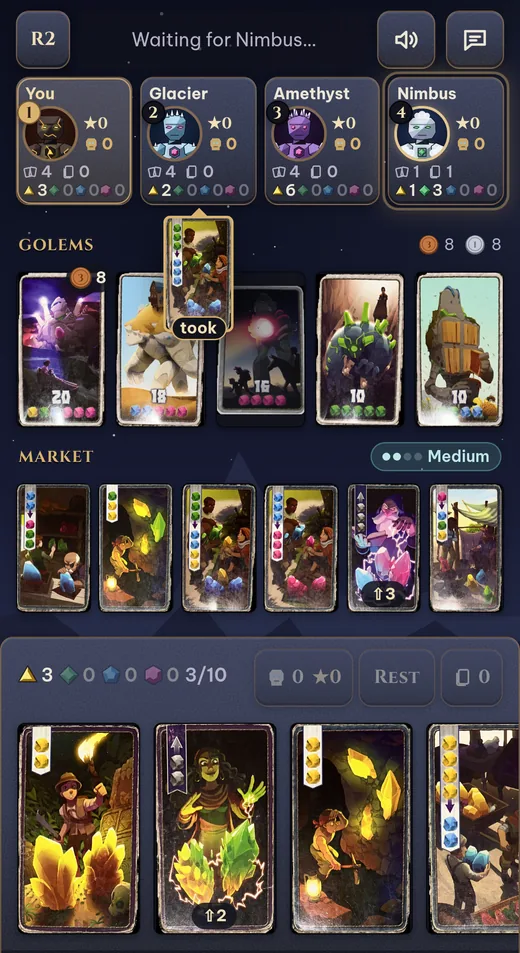
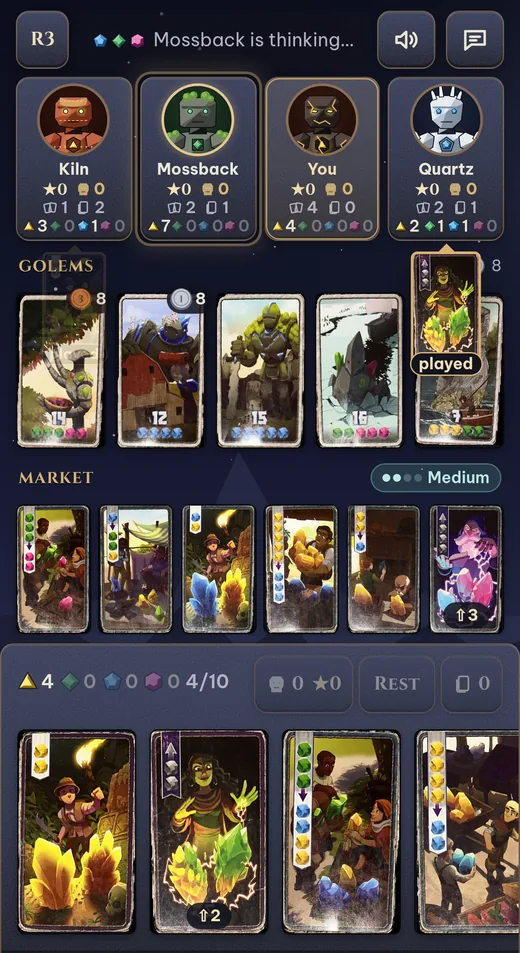
feat(mobile): big centred portraits in the player chips, no turn numbers

diff --git a/src/golem/web/react-frontend/src/components/PlayersInfoBar.jsx b/src/golem/web/react-frontend/src/components/PlayersInfoBar.jsx
@@ -17,9 +17,9 @@ const ORDINAL = ['1st', '2nd', '3rd', '4th', '5th']
 const GAP = 6 // gap-1.5
 
 /**
- * Chip layout for a chip `w` px wide: wide (51px portrait, name · ★ golems · hand played beside it,
- * crystals in one row) · medium (name on top, ★ / golems beside a 42px portrait, crystals in one row) ·
- * narrow (no name, 42px portrait on top, crystals 2×2). Held sideways: 34 / 28px portraits. Below MIN_CHIP the row scrolls sideways instead (5 players on a 320px phone).
+ * Chip layout for a chip `w` px wide: wide (biggest portrait, name, ★ golems and hand / played on one line) ·
+ * medium (name, two lines of numbers, crystals in one row) · narrow (no name, crystals 2×2). Phones held
+ * sideways use compact side-by-side versions (34 / 28px portraits). Below MIN_CHIP the row scrolls sideways instead (5 players on a 320px phone).
  * Sizes allow for two-digit points and Safari's wider text.
  */
 export function chipLayout(w) {
@@ -35,17 +35,6 @@ export function doneForGame(gameState, index) {
   const cur = gameState.players?.findIndex((p) => p.id === gameState.currentPlayer)
   return cur >= 0 && index < cur
 }
-
-// Turn number on the portrait; mine is bronze ("you play 2nd").
-const Order = ({ k, me }) => (
-  <span
-    className={`absolute -left-1 -top-1 z-10 flex h-[18px] min-w-[18px] items-center justify-center rounded-full border px-1 font-display text-xs font-bold leading-none shadow-elev-1
-      ${me ? 'border-bronze-700 bg-bronze-300 text-ink' : 'border-black/70 bg-rock-950 text-bronze-100'}`}
-    aria-hidden="true"
-  >
-    {k}
-  </span>
-)
 
 const Counts = ({ hand, played, className = '' }) => (
   <span className={`inline-flex items-center gap-2 text-xs font-semibold leading-none tabular-nums text-fg-muted ${className}`}>
@@ -75,9 +64,9 @@ const Crystals = ({ caravan, gem, grid = false }) => (
 )
 
 /**
- * Phones: **everyone at the table in turn order** — left to right is the order of play in a round, each
- * portrait numbered (1 starts the round, the highest number ends it), my own chip outlined in bronze —
- * so you see who opens and closes the round and where you sit. Each stone chip: portrait, name (when
+ * Phones: **everyone at the table in turn order** — left to right is the order of play in a round (the
+ * first chip opens it, the last one closes it; no numbers on the portraits, the order says it), my own chip
+ * outlined in bronze — so you see who opens and closes the round and where you sit. Each stone chip: portrait, name (when
  * there is room), ★ points, golems, cards in hand / played, crystals. The player to move glows; people get
  * a timer ring. In the last round, players who already had their final turn are dimmed.
  * Chips get denser as the row fills (`chipLayout`), so all five players fit a phone without scrolling.
@@ -99,8 +88,9 @@ const PlayersInfoBar = ({ landscape = false }) => {
   const chipW = (width - GAP * (cols - 1)) / cols
   const scroll = chipW < MIN_CHIP
   const layout = scroll ? 'narrow' : chipLayout(chipW)
-  // Portraits 1.5× in portrait (51 / 42px; user request 2026-11-18). Held sideways the column is short, so
-  // they stay 34 / 28px there and the hand keeps its room.
+  // Portrait: the portrait centred on top of the chip, as big as it fits (66px when wide, 55px otherwise;
+  // user requests 2026-11-18), the numbers below. Held sideways the column is short, so the compact side-by-side
+  // layouts with 34 / 28px portraits stay there and the hand keeps its room.
   const big = !landscape
 
   return (
@@ -125,7 +115,6 @@ const PlayersInfoBar = ({ landscape = false }) => {
         const portrait = (size) => (
           <span className="relative flex flex-shrink-0">
             <Avatar player={p} size={size} fit turn={current} timer={current && !p.isAI ? timer : undefined} offline={offline} />
-            <Order k={i + 1} me={me} />
           </span>
         )
         return (
@@ -141,10 +130,32 @@ const PlayersInfoBar = ({ landscape = false }) => {
               px-1 ${current ? 'turn-glow' : ''} ${done ? 'opacity-55 saturate-50' : ''}`}
           >
             {me ? <span className="pointer-events-none absolute inset-0 rounded-[inherit] bg-bronze-300/10 ring-1 ring-inset ring-bronze-300/80" aria-hidden="true" /> : null}
-            {layout === 'wide' ? (
+            {big ? (
+              // portrait: the portrait centred on top, as wide as the chip allows, the numbers below it
+              <>
+                <span className="flex justify-center">{portrait(Math.min(layout === 'wide' ? 66 : 55, Math.floor(scroll ? 64 : chipW) - 10))}</span>
+                {layout === 'narrow' ? null : (
+                  <span className={`block truncate text-center text-xs font-bold leading-tight ${me ? 'text-bronze-100' : 'text-fg'}`}>{name}</span>
+                )}
+                {chipW >= 108 ? (
+                  <span className="flex items-center justify-center gap-2.5 text-xs font-bold leading-none">
+                    <span className="flex items-center gap-1.5"><Points p={p} golems={golems} /></span>
+                    <Counts hand={hand} played={played} className="!gap-1.5" />
+                  </span>
+                ) : (
+                  <>
+                    <span className="flex items-center justify-center gap-1.5 text-xs font-bold leading-none"><Points p={p} golems={golems} /></span>
+                    <Counts hand={hand} played={played} className="justify-center !gap-1.5" />
+                  </>
+                )}
+                <span className={chipW >= 80 ? '' : 'flex justify-center'}>
+                  <Crystals caravan={p.caravan} gem={chipW >= 108 ? 12 : 10} grid={chipW < 80} />
+                </span>
+              </>
+            ) : layout === 'wide' ? (
               <>
                 <span className="flex min-w-0 items-center gap-1">
-                  {portrait(big ? 51 : 34)}
+                  {portrait(34)}
                   <span className="flex min-w-0 flex-1 flex-col gap-1 leading-none">
                     <span className={`block truncate text-xs font-bold leading-tight ${me ? 'text-bronze-100' : 'text-fg'}`}>{name}</span>
                     <span className="flex items-center gap-1.5 text-xs font-bold"><Points p={p} golems={golems} /></span>
@@ -157,24 +168,17 @@ const PlayersInfoBar = ({ landscape = false }) => {
               <>
                 <span className={`block truncate pl-0.5 text-xs font-bold leading-tight ${me ? 'text-bronze-100' : 'text-fg'}`}>{name}</span>
                 <span className="flex min-w-0 items-center gap-1">
-                  {portrait(big ? 42 : 28)}
+                  {portrait(28)}
                   <Stack><Points p={p} golems={golems} /></Stack>
-                  {!big && chipW >= 86 ? (
+                  {chipW >= 86 ? (
                     <Stack className="ml-auto font-semibold text-fg-muted">
                       <span className="inline-flex items-center gap-0.5"><HandIcon size={12} />{hand}</span>
                       <span className="inline-flex items-center gap-0.5"><PlayedIcon size={12} />{played}</span>
                     </Stack>
                   ) : null}
                 </span>
-                {!big && chipW >= 86 ? null : <Counts hand={hand} played={played} className="!gap-1.5" />}
+                {chipW >= 86 ? null : <Counts hand={hand} played={played} className="!gap-1.5" />}
                 <Crystals caravan={p.caravan} gem={10} />
-              </>
-            ) : big ? (
-              <>
-                <span className="flex justify-center">{portrait(42)}</span>
-                <span className="flex items-center justify-center gap-1.5 text-xs font-bold leading-none"><Points p={p} golems={golems} /></span>
-                <Counts hand={hand} played={played} className="justify-center !gap-1.5" />
-                <span className="flex justify-center"><Crystals caravan={p.caravan} gem={10} grid /></span>
               </>
             ) : (
               <>

diff --git a/src/golem/web/react-frontend/src/components/__tests__/PlayersInfoBar.test.jsx b/src/golem/web/react-frontend/src/components/__tests__/PlayersInfoBar.test.jsx
@@ -18,7 +18,7 @@ describe('PlayersInfoBar (phones): everyone in turn order', () => {
     act(() => useGameStore.setState({ gameState: null, myPlayer: null, currentPlayer: null }))
   })
 
-  test('all five players, me included, numbered in the order they play; first and last are named', () => {
+  test('all five players, me included, in the order they play; first and last are named for screen readers', () => {
     show({ currentPlayer: 4 })
     render(<PlayersInfoBar />)
     const chips = within(screen.getByLabelText('Players in turn order')).getAllByRole('button')
@@ -26,7 +26,7 @@ describe('PlayersInfoBar (phones): everyone in turn order', () => {
     expect(chips[0].getAttribute('aria-label')).toMatch(/^Magma, 1st to play, starts the round/)
     expect(chips[1].getAttribute('aria-label')).toMatch(/^You, 2nd to play:/)
     expect(chips[4].getAttribute('aria-label')).toMatch(/^Onyx, 5th to play, last in the round/)
-    chips.forEach((c, i) => expect(c.textContent).toContain(String(i + 1)))
+    expect(chips.map((c) => c.getAttribute('aria-label').split(',')[0])).toEqual(['Magma', 'You', 'Kiln', 'Rime', 'Onyx']) // seat order
   })
 
   test('last round: players who already had their final turn are marked done', () => {

diff --git a/README.md b/README.md
@@ -71,7 +71,7 @@ Play solo against 1–4 AI opponents or with up to 5 friends, right in the brows
 - **24 original golem avatars** drawn for this project; AI opponents wear random ones and are named after them (Basalt, Mossback, Rime…)
 - **Your own picture as avatar** in both modes: pick an image (≤ 5 MB), drag/zoom it into the circle; it is shrunk to 256 px in the browser, re-encoded on the server (metadata removed) and **deleted with the room** — never stored
 - **Undo** an overflowing card play from the discard popup; **reconnect banner** keeps the board on screen if the connection drops
-- **Sound effects** for your turn, plays, purchases, golem claims, rests, the last round and game over, and a **victory celebration** with a fanfare when you win
+- **Sound effects** for your turn, purchases, golem claims, rests, the last round and game over, a soft **card slap** whenever anyone plays a card, and a **victory celebration** with a fanfare when you win; they also work on iPhones (unlocked on your first tap)
 
 </td>
 </tr>
@@ -118,14 +118,14 @@ or the notch.
 
 <table>
 <tr>
-<td align="center" width="25%"><img src="docs/assets/screenshots/mobile.webp" alt="Phone board: top bar with round, Your turn 56s, sound and activity buttons; four player chips in turn order numbered 1 to 4, yours second with a bronze number and outline, each with points, golems, cards in hand and played, crystals; five golems and six market cards in one row each, the ones you can take marked with a check; your crystals 4/10, golems, Rest and played buttons above your hand"/><br/><sub><b>Your turn</b>: everyone in turn order, golems, market and hand on one screen</sub></td>
+<td align="center" width="25%"><img src="docs/assets/screenshots/mobile.webp" alt="Phone board: top bar with round, Your turn, sound and activity buttons; four player chips in turn order, each a big portrait with name, points, golems, cards in hand and played and crystals below, yours outlined in bronze; five golems and six market cards in one row each, the ones you can take marked with a check; your crystals 4/10, golems, Rest and played buttons above your hand"/><br/><sub><b>Your turn</b>: everyone in turn order, golems, market and hand on one screen</sub></td>
 <td align="center" width="25%"><img src="docs/assets/screenshots/mobile-moves.webp" alt="While an AI thinks, the merchant card another opponent just took pops up under their chip with the word took"/><br/><sub><b>Live moves</b>: the card an opponent just played or took pops up under them</sub></td>
-<td align="center" width="25%"><img src="docs/assets/screenshots/mobile-player.webp" alt="Sheet for opponent Amethyst: points, golems, cards in hand and played, crystals, then Last moves (Took, Claimed a golem, Played, with card pictures and what each card does) and Played since last rest"/><br/><sub><b>Tap an opponent</b>: their last moves and the cards they played since resting</sub></td>
+<td align="center" width="25%"><img src="docs/assets/screenshots/mobile-player.webp" alt="Sheet for an opponent: points, golems, cards in hand and played, crystals, then their last moves with card pictures and what each card does, and the cards they played since their last rest"/><br/><sub><b>Tap an opponent</b>: their last moves and the cards they played since resting</sub></td>
 <td align="center" width="25%"><img src="docs/assets/screenshots/mobile-sheet.webp" alt="Tapping market card 2 opens a sheet with the card large, what it does, the rule to place one crystal on each card to its left, and a Place 1 and take button"/><br/><sub><b>Tap a card</b>: what it does and the one action you can take</sub></td>
 </tr>
 <tr>
 <td align="center"><img src="docs/assets/screenshots/difficulty.webp" alt="Single-player lobby on a phone: name, 1 to 4 AI opponents, difficulty Easy to Very Hard with level dots, and the golem avatar grid with an upload tile for your own picture"/><br/><sub><b>Lobby</b>: 1–4 AIs, Easy → Very Hard, a golem or your own picture</sub></td>
-<td align="center" colspan="2"><img src="docs/assets/screenshots/mobile-landscape.webp" alt="Phone held sideways: top bar, golems and market on the left; the four numbered player chips and your hand on the right"/><br/><sub><b>Sideways</b>: board on the left, opponents and your hand on the right</sub></td>
+<td align="center" colspan="2"><img src="docs/assets/screenshots/mobile-landscape.webp" alt="Phone held sideways: top bar, golems and market on the left; the four player chips in turn order and your hand on the right"/><br/><sub><b>Sideways</b>: board on the left, opponents and your hand on the right</sub></td>
 <td align="center"><img src="docs/assets/screenshots/mobile-activity.webp" alt="Activity sheet: room ID with a Copy button, a timeline of moves with card thumbnails and what each card does, and a chat box"/><br/><sub><b>Activity</b>: the last 30 moves with cards, chat, room ID</sub></td>
 </tr>
 </table>
@@ -133,8 +133,8 @@ or the notch.
 | I want to… | On the phone |
 |:--|:--|
 | Know whose turn it is | The top bar says **Your turn** with your seconds left, or *Waiting for …* / *… is thinking*. The player to move glows and their portrait ring pulses; people (not AIs) get a timer ring |
-| See the turn order | Every player, **you included**, sits in one row in the order of play: left to right, each portrait numbered **1** (opens the round) to the last (closes it). Your number is bronze and your chip has a bronze outline. In the last round, players who already had their final turn are dimmed |
-| Check my opponents | Each chip shows **★ points**, golems, cards in hand, cards played and the 4 crystals; chips get denser as the table fills, so all 5 players fit a phone |
+| See the turn order | Every player, **you included**, sits in one row in the order of play: the leftmost opens the round, the rightmost closes it. Your chip has a bronze outline. In the last round, players who already had their final turn are dimmed |
+| Check my opponents | Each chip shows a big portrait on top, then **★ points**, golems, cards in hand, cards played and the 4 crystals; chips get denser as the table fills, so all 5 players fit a phone |
 | See what someone just did | Their card pops up under their chip for about 3 seconds (*played*, *took*, *claimed*). Rests show as *"… rested · took back n cards"*. Touch anywhere to dismiss |
 | Look back at a player's moves | **Tap their chip**: their last moves with card pictures and what each card does, every card they played since their last rest (newest first) and their golems |
 | Take a merchant card | Tap it in the Market. On your turn the cards you can take now have a ✓; the ones you can't afford are dimmed with *Place n* (the crystals it needs). The sheet offers **Take** or **Place n & take** |

diff --git a/docs/upstream-changes.md b/docs/upstream-changes.md
@@ -215,7 +215,7 @@ Chi tiết: [`ui/thiet-ke-giao-dien.md`](ui/thiet-ke-giao-dien.md). Tóm tắt t
 - Thứ tự lượt trên điện thoại (2026-11-18, góp ý: không biết ai đầu / cuối round, mình ở lượt mấy; muốn đủ 5 khối kể cả mình):
   `PlayersInfoBar.jsx` hiện mọi người theo thứ tự ghế (bỏ `opponentsOf`), số lượt trên chân dung, chip của mình viền đồng, round cuối mờ
   người đã xong (`doneForGame`), 3 kiểu chip theo bề ngang (`chipLayout`) để 5 người vừa một hàng. Test `PlayersInfoBar.test.jsx`.
-  Sau đó chân dung to 1,5 lần ở màn dọc (51 / 42px; ngang giữ 34 / 28px).
+  Sau đó (cùng ngày, theo góp ý): chân dung ở giữa chip và to dần tới 66 / 55px ở màn dọc (ngang giữ 34 / 28px), bỏ số lượt trên chân dung.
 - `mobile/MoveBubbles.jsx`: bỏ khung đá quanh lá vừa chơi — viền đồng ôm sát lá, nhãn động từ trên mép dưới (che bàn ít hơn ~34%).
 - Âm thanh trên điện thoại (2026-11-18, góp ý: không còn âm "tới lượt" và Rest trên mobile): `utils/sounds.js` mở khoá mọi âm ở lần chạm
   đầu (phát câm rồi dừng; resume Web Audio cho fanfare), biết âm đang phát bằng trạng thái phần tử thay vì sự kiện `ended` (âm bị ngắt
